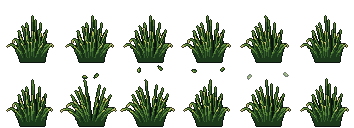
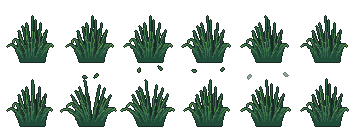
World sprites (in progress): latest sheets from the artists
Snapshot while the artists keep working.

Claude-Session: https://claude.ai/code/session_01E1PN8FTpA19jzx1FNkVfPu

diff --git a/tools/world-sprites/plants.ts b/tools/world-sprites/plants.ts
@@ -325,12 +325,13 @@ function assemble(name: string, label: string, meters: [number, number], tags: s
 }
 
 /** Standard finishing: tidy, inner lines, cast shadows, colors, outline. */
-function finish(b: Buf, o: { spurs?: boolean; inner?: number; gap?: number; bigGap?: number; shadow?: number } = {}): Canvas {
+function finish(b: Buf, o: { spurs?: boolean; inner?: number; gap?: number; bigGap?: number; shadow?: number; leafy?: boolean } = {}): Canvas {
   tidy(b, o.spurs ?? true);
   if (o.inner !== -1) innerLines(b, o.inner ?? 1, o.gap ?? 0.5, o.bigGap ?? -Infinity);
   if (o.shadow !== 0) castShadow(b, o.shadow ?? 2, o.gap ?? 0.5);
   const c = b.toCanvas();
-  c.outline();
+  // Leafy plants share the bushes' very dark green outline; everything else is tinted by its material.
+  c.outline(o.leafy ? { toward: LEAF_OUTLINE, amount: 0.9 } : {});
   return c;
 }
 
@@ -341,15 +342,6 @@ function blit(dst: Canvas, src: Canvas, dx: number, dy: number, alpha = 1): void
       const c = src.get(x, y);
       if (c[3]) dst.plot(dx + x, dy + y, withAlpha(c, c[3] * alpha));
     }
-}
-
-/** A small loose leaf (or petal) with its own outline, for rustle effects. `ang` turns it as it tumbles. */
-function looseLeaf(mat: number, ang: number, len = 5, wid = 3): Canvas {
-  const b = new Buf(12, 12);
-  leafShape(6 - Math.cos(ang) * len * 0.5, 6 - Math.sin(ang) * len * 0.5, ang, len, wid, (px, py, t, s) => b.put(px, py, mat, s < -0.2 && t > 0.3 && t < 0.8 ? 4 : s > 0.3 || t > 0.8 ? 2 : 3));
-  const c = b.toCanvas();
-  c.outline();
-  return c;
 }
 
 // --- foliage masses (bushes) ----------------------------------------------------------------
@@ -794,7 +786,7 @@ function tallGrass(): WorldSprite {
   const frame = (bend: (bl: Blade) => number, bits?: (c: Canvas) => void): Canvas => {
     const b = new Buf(W, H);
     drawBlades(b, blades, ground, bend, seed);
-    const c = finish(b, { spurs: false, inner: 1, gap: 0.6, shadow: 0 });
+    const c = finish(b, { spurs: false, inner: 1, gap: 0.6, shadow: 0, leafy: true });
     bits?.(c);
     return c;
   };
@@ -813,7 +805,7 @@ function tallGrass(): WorldSprite {
         if (f < 1 || f > 4) return;
         const t = f - 1;
         paths.forEach((p, k) => {
-          const leaf = looseLeaf(GRASS, 0.3 + k * 2.1 + t * 1.5 * (k ? 1 : -1), 5, 2.2);
+          const leaf = looseBit([GRASS, 4, 3, 2], 0.3 + k * 2.1 + t * 1.5 * (k ? 1 : -1), 5, 2.2);
           blit(c, leaf, Math.round(cx + p[t][0] - 6), Math.round(ground - height + p[t][1] - 6), f === 4 ? 0.6 : 1);
         });
       },
@@ -965,7 +957,7 @@ function fern(): WorldSprite {
     strokeQuad(b, cx, ground - 1, cx + 1, ground - 10, fx, fy + 3, () => 1, () => [FERN, 2], 40, 1.5);
     const curl: [number, number, number][] = [[0, 2, 3], [0, 1, 3], [0, 0, 4], [1, -1, 4], [2, -1, 3], [3, 0, 3], [3, 1, 2], [2, 2, 2], [1, 1, 2]];
     for (const [dx, dy, st] of curl) b.put(fx + dx, fy + dy, FERN, st, 40, 1.5);
-    return finish(b, { spurs: false, inner: 1, gap: 0.5, shadow: 0 });
+    return finish(b, { spurs: false, inner: 1, gap: 0.5, shadow: 0, leafy: true });
   };
   const idle = Array.from({ length: 4 }, (_, f) => frame(f));
   return assemble('fern', 'Fern', [0.9, 0.6], ['ambient'], { idle: { frames: idle, fps: 5 } }, cx, ground);
